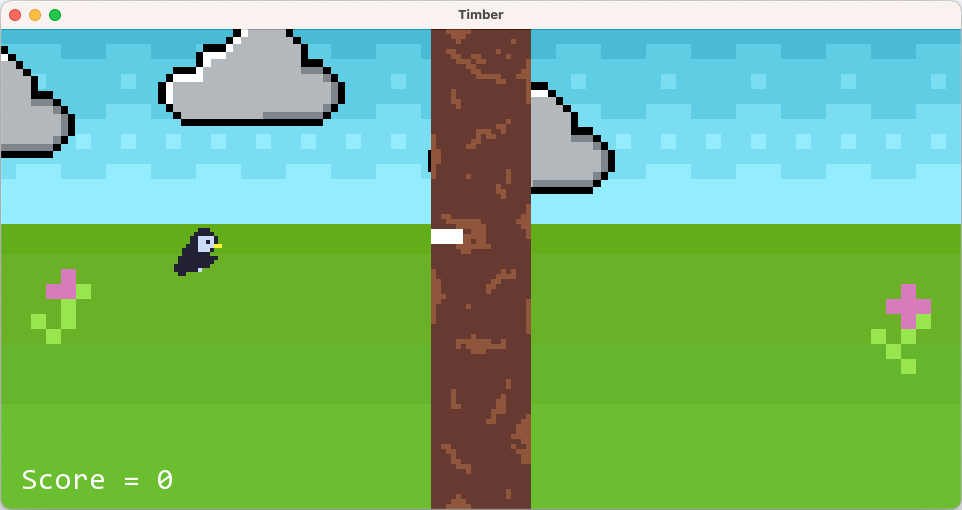
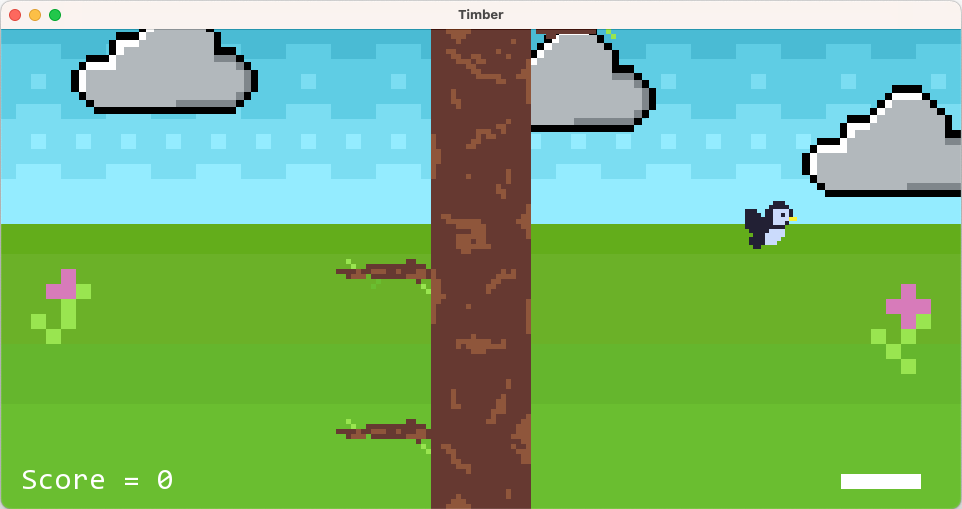
Added branches.

diff --git a/timber.cpp b/timber.cpp
@@ -5,9 +5,22 @@
 #include <string>
 using namespace sf;
 
+void updateBranches(int seed);
+
+const int NUM_BRANCHES = 6;
+Sprite branches[NUM_BRANCHES];
+
+//where is the player/branch?
+enum class side {
+	LEFT,
+	RIGHT,
+	NONE
+};
+side branchPositions[NUM_BRANCHES];
+
 int main()
 {
-    VideoMode vm(960, 480);
+	VideoMode vm(960, 480);
     RenderWindow window(vm, "Timber");
 
     window.setVerticalSyncEnabled(true);
@@ -93,7 +106,7 @@ int main()
 	float timeBarHeight = 15;
 	timeBar.setSize(Vector2f(timeBarStartWidth, timeBarHeight));
 	timeBar.setFillColor(Color::White);
-	timeBar.setPosition((960 / 2) - timeBarStartWidth / 2, 200);
+	timeBar.setPosition(890.f - timeBarStartWidth / 2, 445.f);
 
 	Time gameTimeTotal;
 	float timeRemaining = 6.0f;
@@ -104,38 +117,47 @@ int main()
 	
 	//draw some text
 	int score = 0;
-
 	Text messageText;
 	Text scoreText;
-
 	//chosing a font
 	Font font;
 	font.loadFromFile(dir + "fonts/consola.ttf");
-
 	//set the font to our message
 	messageText.setFont(font);
 	scoreText.setFont(font);
-
 	//assign the actual message
 	messageText.setString("Press Enter to start!");
 	scoreText.setString("Score = 0");
-
 	//text size
 	messageText.setCharacterSize(50);
 	scoreText.setCharacterSize(30);
-
 	//chose a color
 	messageText.setFillColor(Color::White);
 	scoreText.setFillColor(Color::White);
-
 	//text position
 	FloatRect textRect = messageText.getLocalBounds();
-
 	messageText.setOrigin(textRect.left + textRect.width / 2.0f,
 						  textRect.top + textRect.height / 2.0f);
 	messageText.setPosition(960 / 2.0f, 480 / 2.0f);
-
 	scoreText.setPosition(20, 430);
+
+	//prepare 6 branches
+	Texture textureBranch;
+	textureBranch.loadFromFile("graphics/branch.png");
+	//set the texture for 6 branch sprite
+	for (int i = 0; i < NUM_BRANCHES; i++) {
+		branches[i].setTexture(textureBranch);
+		branches[i].setPosition(-2000, -2000);
+		//set the sprite's origin to dead centre
+		//we can then spin it round without changing its position
+		branches[i].setOrigin(80, 80);
+	}
+
+	updateBranches(1);
+	updateBranches(2);
+	updateBranches(3);
+	updateBranches(4);
+	updateBranches(5);
 
 	while (window.isOpen())
     {
@@ -275,6 +297,25 @@ int main()
 			ss << "Score = " << score;
 			scoreText.setString(ss.str());
 
+			//update the branch sprites
+			for (int i = 0; i < NUM_BRANCHES; i++) {
+				float height = i * 80;
+				if (branchPositions[i] == side::LEFT) {
+					//move sprite to the left side
+					branches[i].setPosition(380, height);
+					//flip sprite round the other way
+					branches[i].setRotation(180);
+				} else if (branchPositions[i] == side::RIGHT) {
+					//move sprite to the right side
+					branches[i].setPosition(580, height);
+					//set sprite rotation to normal
+					branches[i].setRotation(0);
+				} else {
+					//hide the branch
+					branches[i].setPosition(2000, height);
+				}
+			}
+
 		} //end if (!paused)
         /*
         ************************************************************
@@ -290,6 +331,9 @@ int main()
 		window.draw(spriteCloud1);
 		window.draw(spriteCloud2);
 		window.draw(spriteCloud3);
+		for (int i = 0; i < NUM_BRANCHES; i++) {
+			window.draw(branches[i]);
+		}
 		window.draw(spriteTree);
 		if (wingFlap)
 			window.draw(spriteBird);
@@ -309,4 +353,28 @@ int main()
         window.display();
     }
     return 0;
+}
+
+//
+void updateBranches(int seed) {
+	//move all the branches down one place
+	for (int i = NUM_BRANCHES - 1; i > 0; --i) {
+		branchPositions[i] = branchPositions[i - 1];
+	}
+
+	//spawn a new branch at 0 position
+	//LEFT, RIGHT or NONE
+	srand(int(time(0)) + seed);
+	int r = (rand() % 5);
+	switch (r) {
+		case 0:
+			branchPositions[0] = side::LEFT;
+			break;
+		case 1:
+			branchPositions[0] = side::RIGHT;
+			break;
+		default:
+			branchPositions[0] = side::NONE;
+			break;
+	}
 }

diff --git a/README.md b/README.md
@@ -1,1 +1,2 @@
 # TheWoodmanGame
+training project
